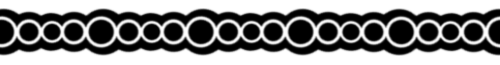
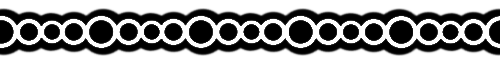
Peas maybe clearer.

Changed region(s): [[0.0, 0.2462, 1.0, 0.7385]]

diff --git a/card_images.py b/card_images.py
@@ -516,9 +516,9 @@ scheme    = PerColourScheme_4Stripes_3Doubles
 COL_COUNT = scheme.COL_COUNT
 visuals   = get_visuals(palette_nik_colourblind,
                         [('ribbon', 'red'),
-                         ('holes',  'yellow'),
+                         ('rope',  'yellow'),
+                         ('waves',  'blue'),
                          ('peas',  'green'),
-                         ('rope',   'blue'),
                          ])
 
 # Assemble all the cards
